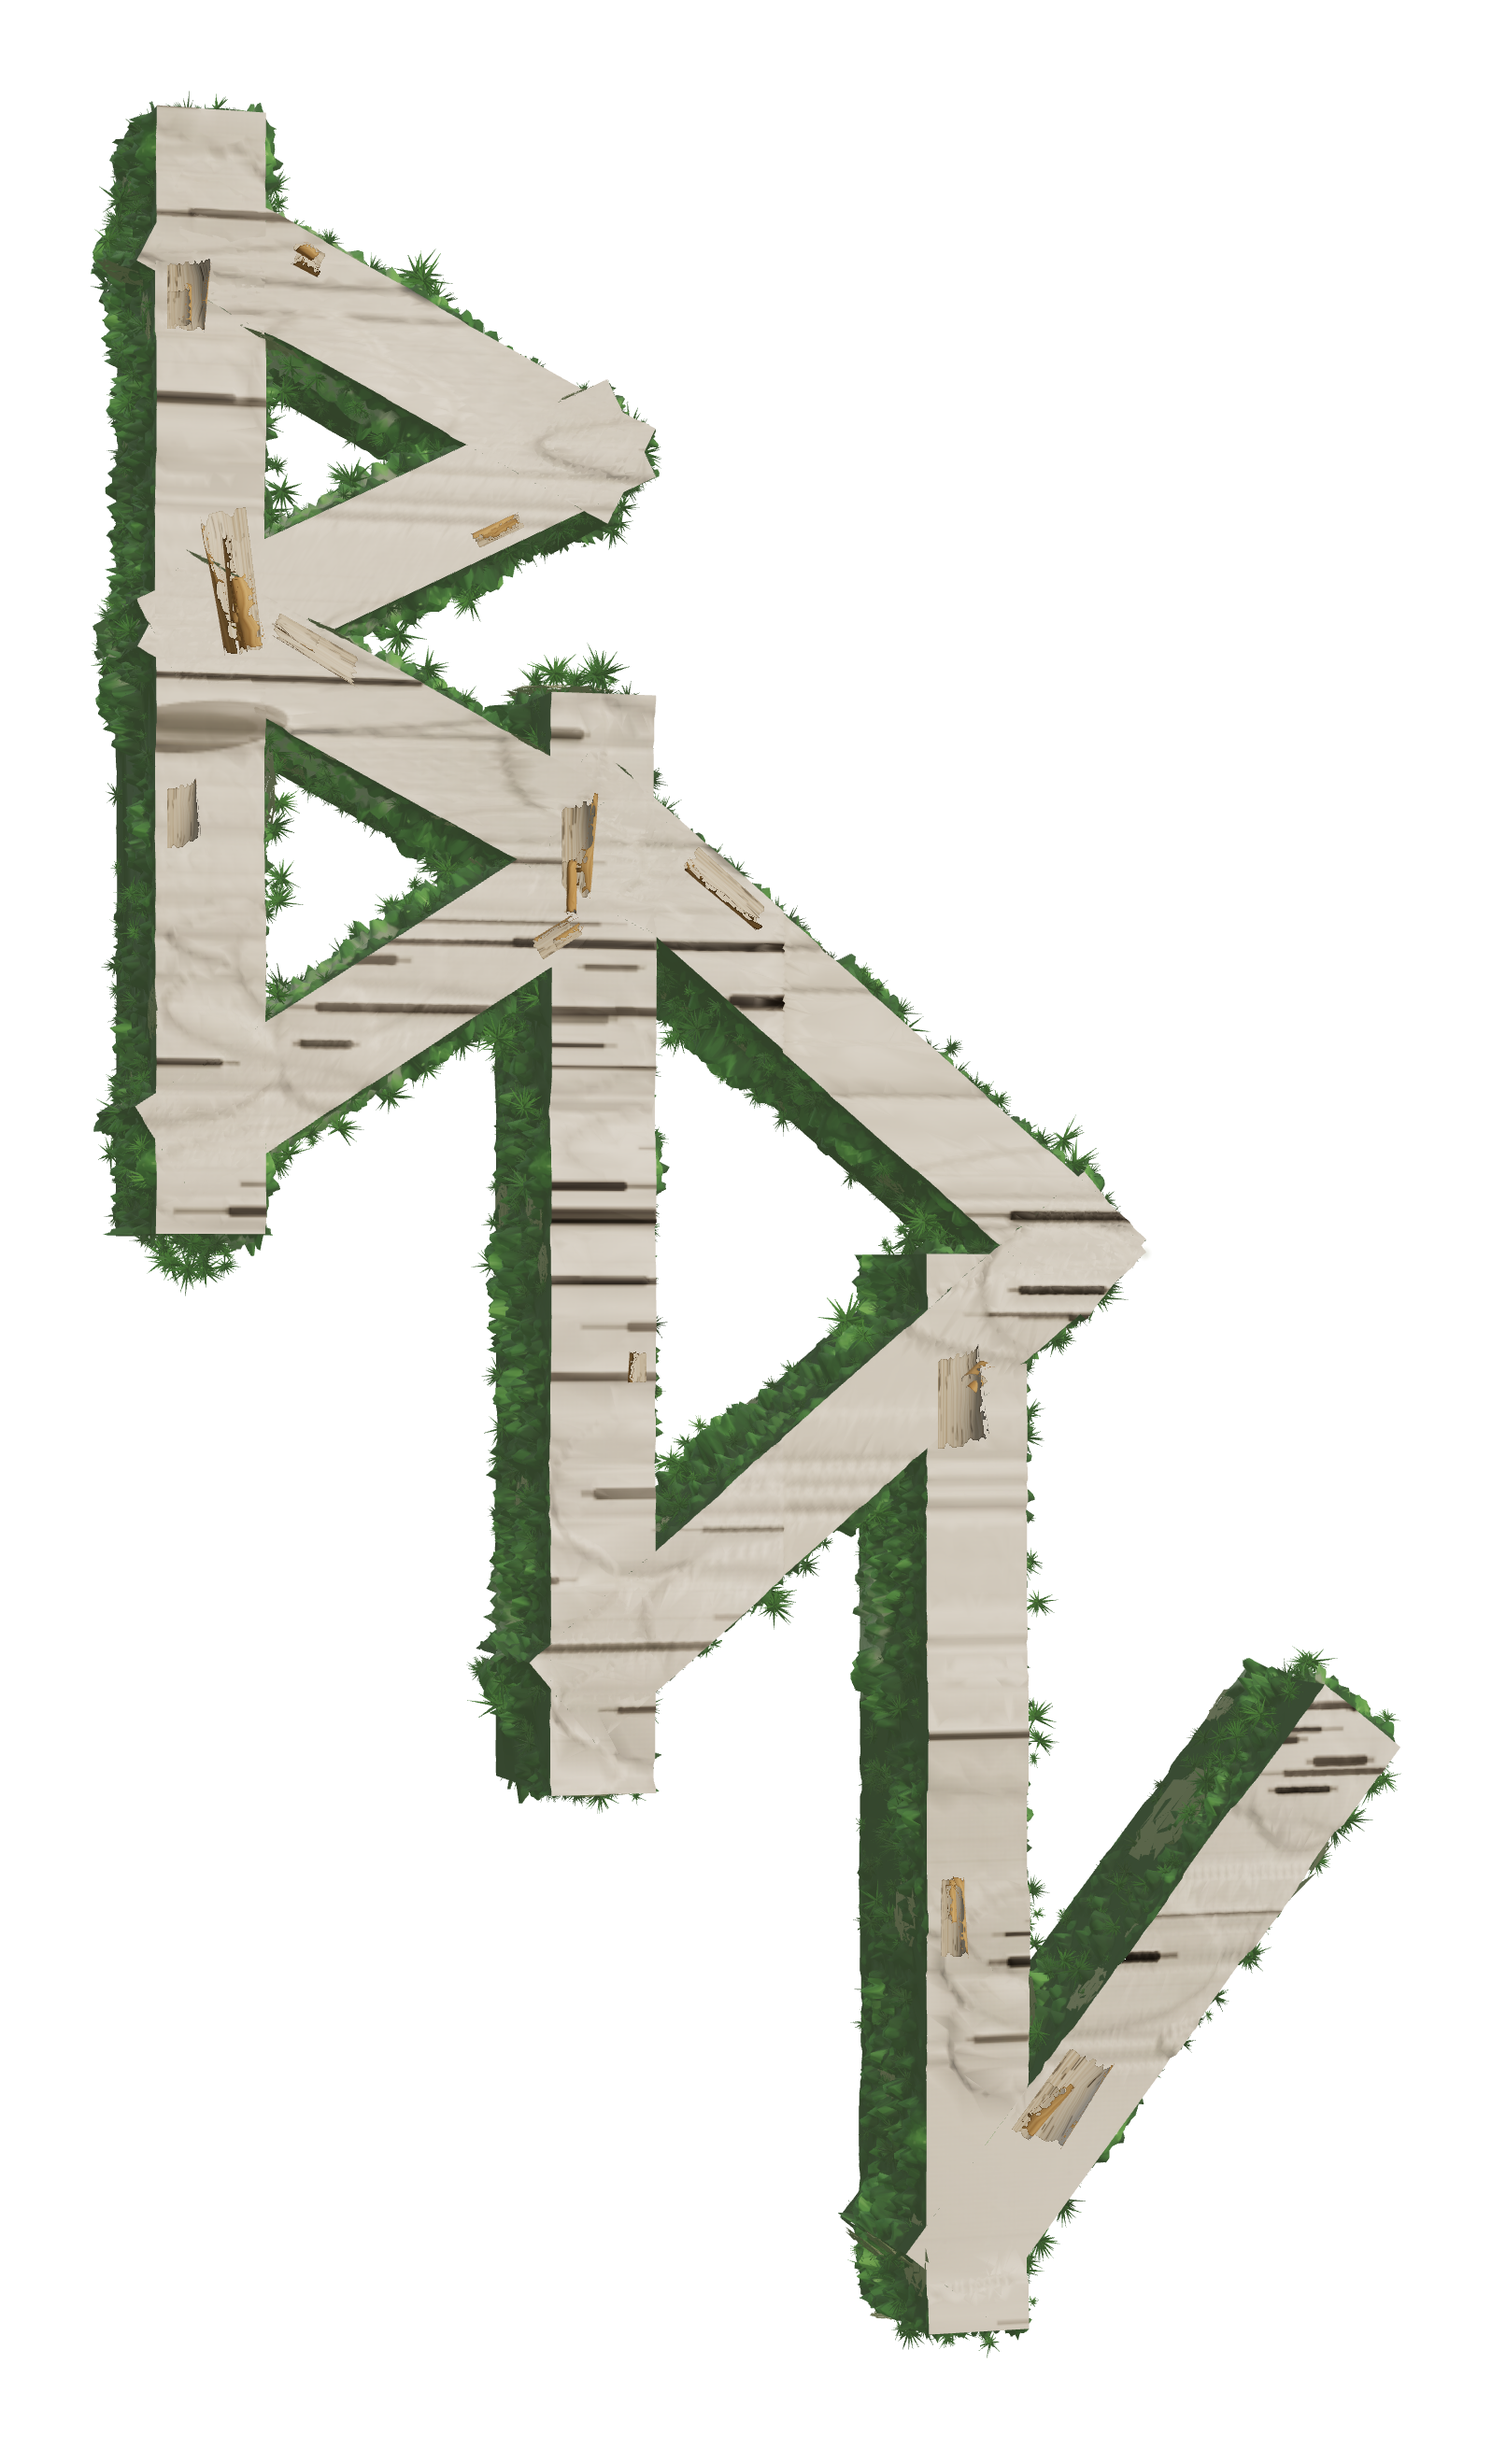
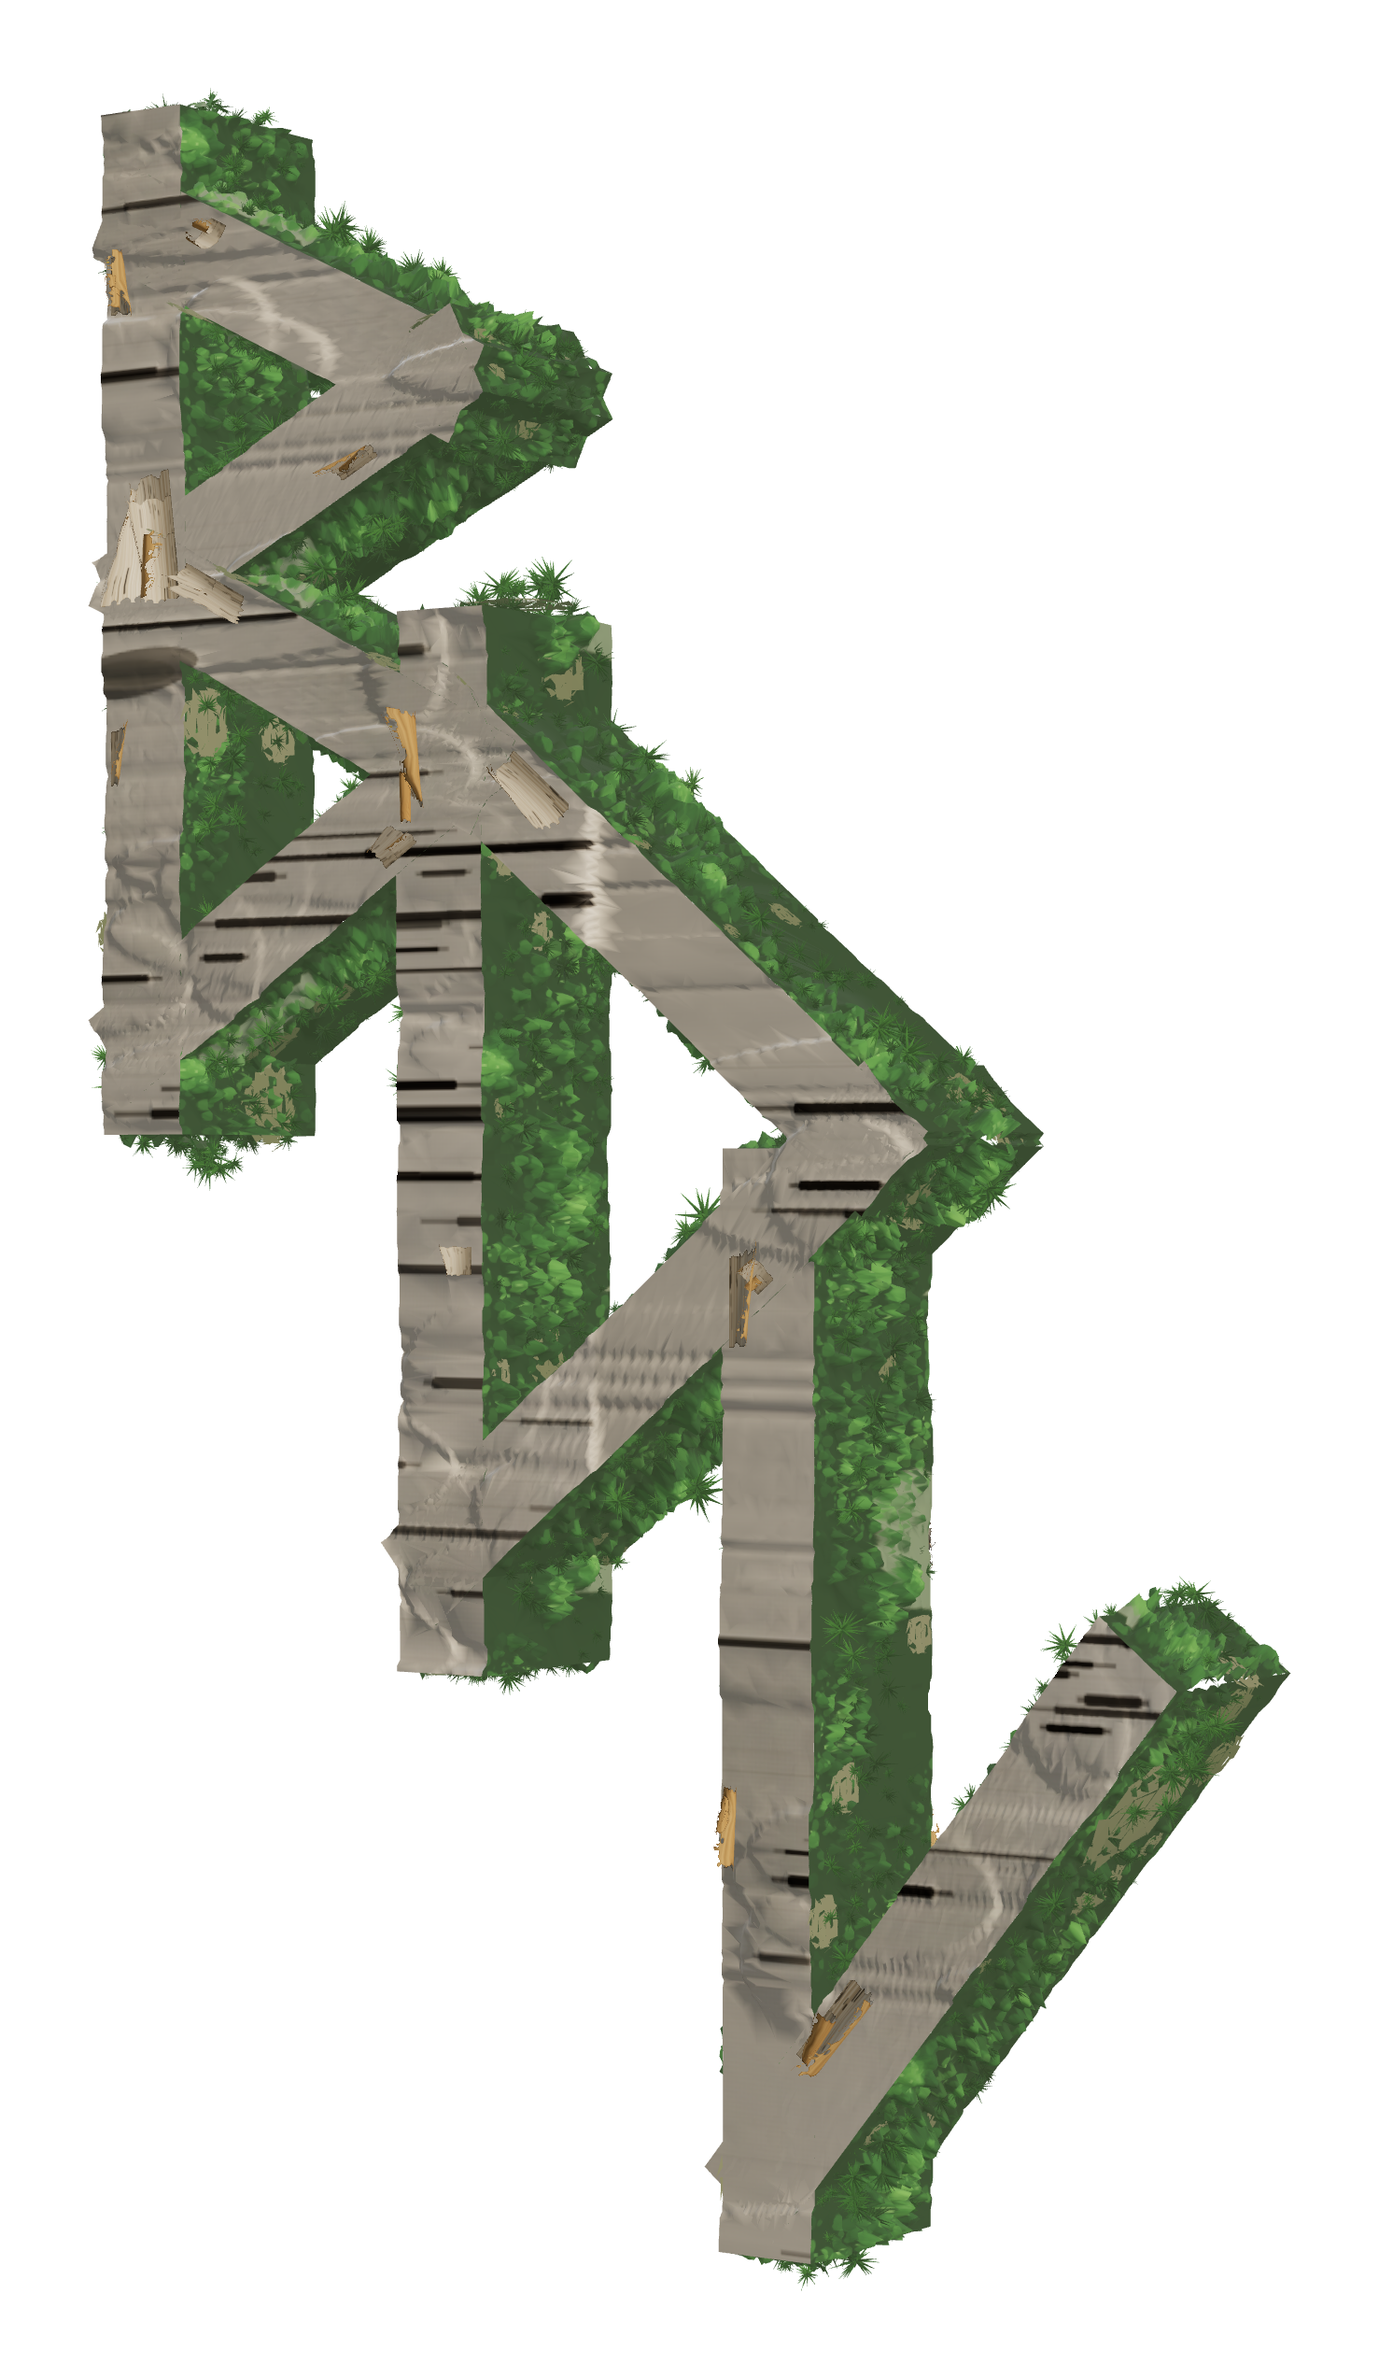
Swiss B1 founder calls: red closer on Home, three-quarter tree, smaller numerals, grid key in the header
- Home's closer is a full-bleed red field with the button inside it, as on
  Services, so light Home has one red field and no red button.
- The tree is re-rendered sharp at a fixed three-quarter turn (keyboard
  control of the BDL-007 scene instead of its idle turn), matching the
  still approved in the proof; the field ratio follows.
- The Services process numerals come down to about one and a half times the
  page title, so the title stays the first giant.
- The grid key moves into the header on the wordmark's line, G held on a
  keyboard shows the grid too (not while typing), and the guides are red
  hairlines at each column edge with faint lines on the 24px rhythm.

diff --git a/tests/swiss-grid-key.test.ts b/tests/swiss-grid-key.test.ts
@@ -2,6 +2,7 @@ import { describe, expect, it } from 'vitest';
 import { readFileSync } from 'node:fs';
 
 const key = readFileSync('src/themes/swiss/GridKey.astro', 'utf8');
+const header = readFileSync('src/themes/swiss/Header.astro', 'utf8');
 const footer = readFileSync('src/themes/swiss/Footer.astro', 'utf8');
 const css = readFileSync('src/themes/swiss/theme.css', 'utf8');
 
@@ -13,14 +14,25 @@ describe('swiss grid key', () => {
     for (const ev of ['pointerdown', 'pointerup', 'pointercancel', 'keydown', 'keyup', 'blur']) expect(key).toContain(`'${ev}'`);
     expect(key).toMatch(/e\.key !== ' ' && e\.key !== 'Enter'/);
   });
-  it('starts hidden and is mounted by the footer', () => {
+  it('starts hidden and is mounted by the header, not the footer', () => {
     expect(key).toMatch(/data-sw-guides hidden/);
-    expect(footer).toContain('<GridKey />');
+    expect(header).toContain('<GridKey />');
+    expect(header.indexOf('<GridKey />')).toBeLessThan(header.indexOf('</header>'));
+    expect(footer).not.toContain('GridKey');
   });
-  it('sits in the footer flow, never fixed, so it cannot meet the portal switcher', () => {
+  it('the key itself is never fixed, so it cannot meet the portal switcher', () => {
     const rule = key.slice(key.indexOf('.grid-key {'), key.indexOf('}', key.indexOf('.grid-key {')));
     expect(rule).not.toMatch(/position:\s*fixed/);
-    expect(footer.indexOf('<GridKey />')).toBeLessThan(footer.indexOf('</footer>'));
+  });
+  it('G held anywhere shows the grid, except while typing', () => {
+    expect(key).toMatch(/e\.key === 'g' \|\| e\.key === 'G'/);
+    expect(key).toMatch(/INPUT\|TEXTAREA\|SELECT/);
+    expect(key).toContain("document.addEventListener('keydown', gDown)");
+    expect(key).toContain("document.addEventListener('keyup', gUp)");
+  });
+  it('draws hairlines at the column edges and a baseline on every line', () => {
+    expect(key).toMatch(/\.guides span \{ border-inline: 1px solid/);
+    expect(key).toMatch(/repeating-linear-gradient\(180deg/);
   });
   it('shows 12, 6 or 4 guides to match the school columns', () => {
     expect(key).toContain('repeat(var(--cols)');

diff --git a/docs/superpowers/specs/theme-schools-research/tier3-stage4/stage4-decisions.md b/docs/superpowers/specs/theme-schools-research/tier3-stage4/stage4-decisions.md
@@ -149,6 +149,19 @@ To `tier-a-report.md`, "Questions at this stop":
    once the founder picks.
 5. **Push the branch as a draft PR.**
 
+## Answers at the B1 stop (founder, 10-03-26)
+
+To `tier-b1-report.md`, "Calls for you": calls 1, 3 and 4 "for sure"
+(Home's closer as a full-bleed red field with the button inside; the tree
+re-rendered sharp at the proof's three-quarter angle; the Services numerals
+down to about one and a half times the title). Call 6, the grid key, moves
+into the header on the wordmark's line, gains hold-G on a keyboard, and
+draws red hairlines at the column edges plus faint 24px baselines instead of
+shaded columns ("sounds good"). Calls 2 and 5 follow from 1 and the
+recommendation (one red field and no red button on light Home; About's
+button stays on the left beside the tree). All done inline by the
+controller.
+
 ## Tier A proofs (proposed)
 
 Only the risky items get a proof before the build; everything else goes
